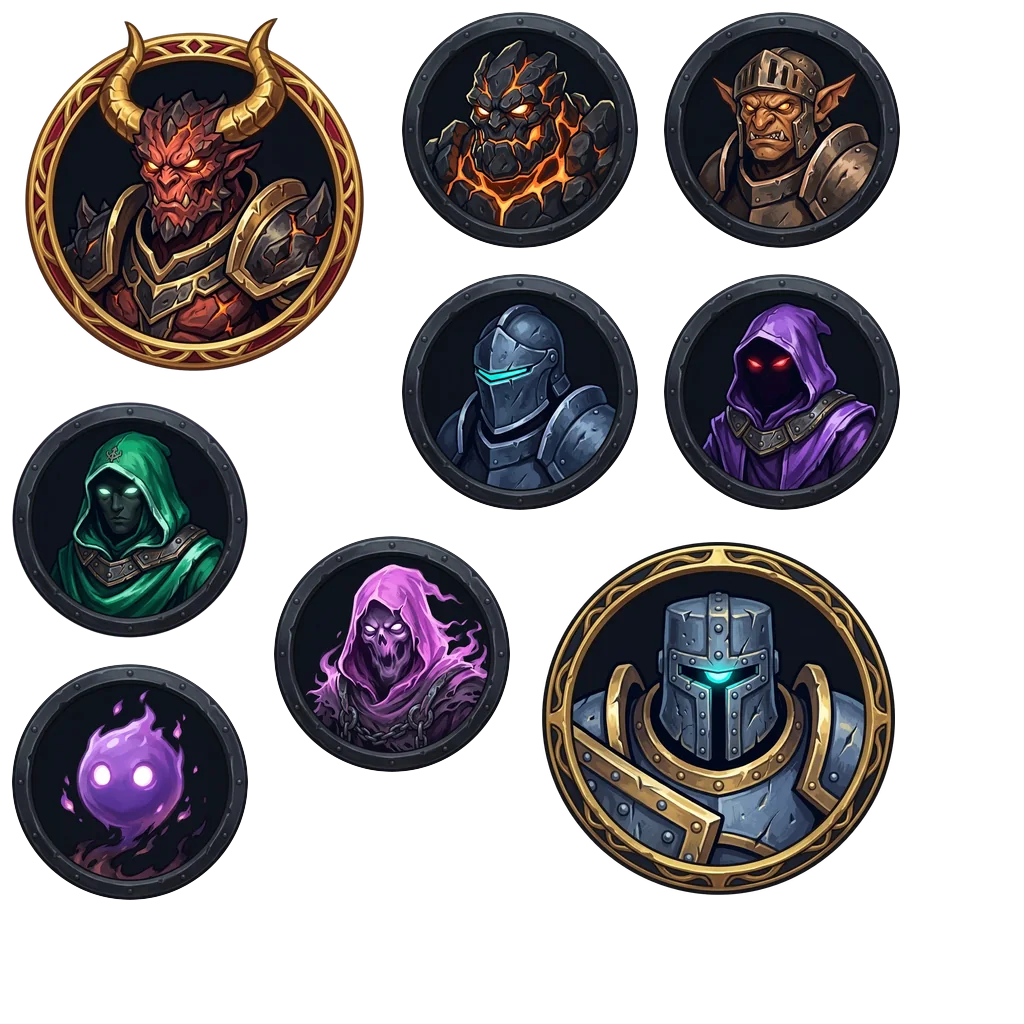
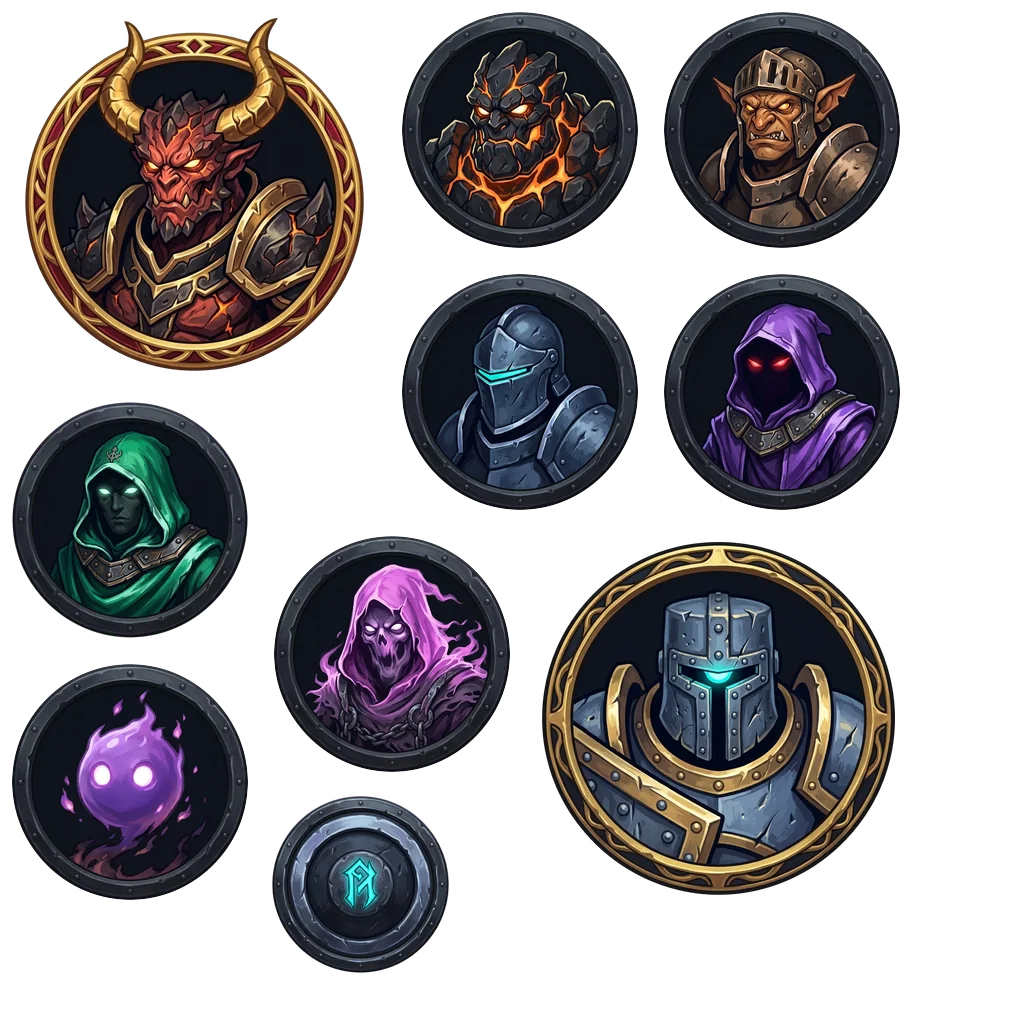
T-026 rodada 4: bumper rúnico no atlas (BRF-028)
Claude-Session: https://claude.ai/code/session_01EN3RX7GrhZzLgyZNfCYpmL

Changed region(s): [[0.25, 0.75, 0.4375, 0.9688]]

diff --git a/art-source/preview.html b/art-source/preview.html
@@ -11,21 +11,22 @@ body.hit .hb::after{content:"";position:absolute;inset:4%;border:1px dashed #00e
 </style></head><body>
 <h1>RuneSling — assets</h1>
 <label><input type="checkbox" onchange="document.body.classList.toggle('hit',this.checked)"> mostrar círculo 92% (hitbox) e centro</label>
-<p>Faltando (21): obstacle_bumper_rune, obstacle_pillar_obsidian, obstacle_ring_multiplier, icon_bumper_shock, icon_static_crit, icon_storm_orb, icon_fire_splash, icon_ignite, icon_supernova, icon_molten_core, icon_ghost_ball, icon_ricochet_crit, icon_wall_clone, icon_arcane_sight, icon_extra_orb, icon_power_surge, icon_bastion_heal, icon_gold_greed, floor_crypt, wall_trim_crypt, app_icon</p>
+<p>Faltando (20): obstacle_pillar_obsidian, obstacle_ring_multiplier, icon_bumper_shock, icon_static_crit, icon_storm_orb, icon_fire_splash, icon_ignite, icon_supernova, icon_molten_core, icon_ghost_ball, icon_ricochet_crit, icon_wall_clone, icon_arcane_sight, icon_extra_orb, icon_power_surge, icon_bastion_heal, icon_gold_greed, floor_crypt, wall_trim_crypt, app_icon</p>
 <main>
-<figure data-key="boss_obsidian"><div class="spr hb" style="width:384px;height:384px;background:url('../public/assets/atlases/enemies.webp?v=dae953f7') -2px -2px"></div><figcaption>boss_obsidian <small>enemies 384×384</small></figcaption></figure>
-<figure data-key="enemy_bomb"><div class="spr hb" style="width:256px;height:256px;background:url('../public/assets/atlases/enemies.webp?v=dae953f7') -392px -2px"></div><figcaption>enemy_bomb <small>enemies 256×256</small></figcaption></figure>
-<figure data-key="enemy_goblin"><div class="spr hb" style="width:256px;height:256px;background:url('../public/assets/atlases/enemies.webp?v=dae953f7') -654px -2px"></div><figcaption>enemy_goblin <small>enemies 256×256</small></figcaption></figure>
-<figure data-key="enemy_healer"><div class="spr hb" style="width:256px;height:256px;background:url('../public/assets/atlases/enemies.webp?v=dae953f7') -2px -392px"></div><figcaption>enemy_healer <small>enemies 256×256</small></figcaption></figure>
-<figure data-key="enemy_mini"><div class="spr hb" style="width:256px;height:256px;background:url('../public/assets/atlases/enemies.webp?v=dae953f7') -2px -654px"></div><figcaption>enemy_mini <small>enemies 256×256</small></figcaption></figure>
-<figure data-key="enemy_shield"><div class="spr hb" style="width:256px;height:256px;background:url('../public/assets/atlases/enemies.webp?v=dae953f7') -392px -264px"></div><figcaption>enemy_shield <small>enemies 256×256</small></figcaption></figure>
-<figure data-key="enemy_shooter"><div class="spr hb" style="width:256px;height:256px;background:url('../public/assets/atlases/enemies.webp?v=dae953f7') -654px -264px"></div><figcaption>enemy_shooter <small>enemies 256×256</small></figcaption></figure>
-<figure data-key="enemy_splitter"><div class="spr hb" style="width:256px;height:256px;background:url('../public/assets/atlases/enemies.webp?v=dae953f7') -264px -526px"></div><figcaption>enemy_splitter <small>enemies 256×256</small></figcaption></figure>
-<figure data-key="miniboss_iron"><div class="spr hb" style="width:384px;height:384px;background:url('../public/assets/atlases/enemies.webp?v=dae953f7') -526px -526px"></div><figcaption>miniboss_iron <small>enemies 384×384</small></figcaption></figure>
+<figure data-key="boss_obsidian"><div class="spr hb" style="width:384px;height:384px;background:url('../public/assets/atlases/enemies.webp?v=edd19736') -2px -2px"></div><figcaption>boss_obsidian <small>enemies 384×384</small></figcaption></figure>
+<figure data-key="enemy_bomb"><div class="spr hb" style="width:256px;height:256px;background:url('../public/assets/atlases/enemies.webp?v=edd19736') -392px -2px"></div><figcaption>enemy_bomb <small>enemies 256×256</small></figcaption></figure>
+<figure data-key="enemy_goblin"><div class="spr hb" style="width:256px;height:256px;background:url('../public/assets/atlases/enemies.webp?v=edd19736') -654px -2px"></div><figcaption>enemy_goblin <small>enemies 256×256</small></figcaption></figure>
+<figure data-key="enemy_healer"><div class="spr hb" style="width:256px;height:256px;background:url('../public/assets/atlases/enemies.webp?v=edd19736') -2px -392px"></div><figcaption>enemy_healer <small>enemies 256×256</small></figcaption></figure>
+<figure data-key="enemy_mini"><div class="spr hb" style="width:256px;height:256px;background:url('../public/assets/atlases/enemies.webp?v=edd19736') -2px -654px"></div><figcaption>enemy_mini <small>enemies 256×256</small></figcaption></figure>
+<figure data-key="enemy_shield"><div class="spr hb" style="width:256px;height:256px;background:url('../public/assets/atlases/enemies.webp?v=edd19736') -392px -264px"></div><figcaption>enemy_shield <small>enemies 256×256</small></figcaption></figure>
+<figure data-key="enemy_shooter"><div class="spr hb" style="width:256px;height:256px;background:url('../public/assets/atlases/enemies.webp?v=edd19736') -654px -264px"></div><figcaption>enemy_shooter <small>enemies 256×256</small></figcaption></figure>
+<figure data-key="enemy_splitter"><div class="spr hb" style="width:256px;height:256px;background:url('../public/assets/atlases/enemies.webp?v=edd19736') -264px -526px"></div><figcaption>enemy_splitter <small>enemies 256×256</small></figcaption></figure>
+<figure data-key="miniboss_iron"><div class="spr hb" style="width:384px;height:384px;background:url('../public/assets/atlases/enemies.webp?v=edd19736') -526px -526px"></div><figcaption>miniboss_iron <small>enemies 384×384</small></figcaption></figure>
+<figure data-key="obstacle_bumper_rune"><div class="spr hb" style="width:192px;height:192px;background:url('../public/assets/atlases/enemies.webp?v=edd19736') -264px -788px"></div><figcaption>obstacle_bumper_rune <small>enemies 192×192</small></figcaption></figure>
 <figure data-key="icon_chain_lightning"><div class="spr hb" style="width:128px;height:128px;background:url('../public/assets/atlases/icons.webp?v=81df7d0a') -2px -2px"></div><figcaption>icon_chain_lightning <small>icons 128×128</small></figcaption></figure>
 <figure data-key="icon_chain_lightning"><img src="../public/assets/icons/icon_chain_lightning.webp?v=f87711a0" alt="icon_chain_lightning"><figcaption>icon_chain_lightning <small>icons/icon_chain_lightning.webp</small></figcaption></figure>
 </main>
 <h2>Atlases</h2>
-<main><figure><img class="sheet" src="../public/assets/atlases/enemies.webp?v=dae953f7" alt="atlas enemies"><figcaption>atlas enemies 1024×1024</figcaption></figure>
+<main><figure><img class="sheet" src="../public/assets/atlases/enemies.webp?v=edd19736" alt="atlas enemies"><figcaption>atlas enemies 1024×1024</figcaption></figure>
 <figure><img class="sheet" src="../public/assets/atlases/icons.webp?v=81df7d0a" alt="atlas icons"><figcaption>atlas icons 256×256</figcaption></figure></main>
 </body></html>

diff --git a/docs/arte-prompts.md b/docs/arte-prompts.md
@@ -167,7 +167,7 @@ Generate one square 1:1 image. horned obsidian demon lord bust, crimson and blac
 - Arquivo a devolver: `art-source/raw/obstacles/obstacle_bumper_rune.png`
 - Anexar no Gemini: `art-source/anchors/medallion_anchor.png`
 - Fundo: magenta · tamanho final 192 px
-- Situação: pendente
+- Situação: **entregue**
 
 ```text
 Generate one square 1:1 image. circular runic pinball bumper seen from above, round dark iron dome with a carved cyan rune in the center (#00CEC9), thick iron ring edge, perfectly round silhouette. top-down view arena prop, dark fantasy 2D game asset, stylized hand-painted illustration, forged dark iron and obsidian stone, clean bold silhouette, dramatic top-down lighting, no outer glow, no light bleeding outside the shape, no cast shadow, centered, no text, no letters, no numbers, no UI. Background: one solid flat pure magenta color (#FF00FF) filling the whole canvas, no gradient, no shadow, no floor, no vignette, no texture. Do not use magenta anywhere on the subject. Use the attached image only as a style reference: match its rendering, brush texture, rim construction, lighting direction, contrast and level of detail exactly, but draw the new subject described above. Do not copy its subject.
